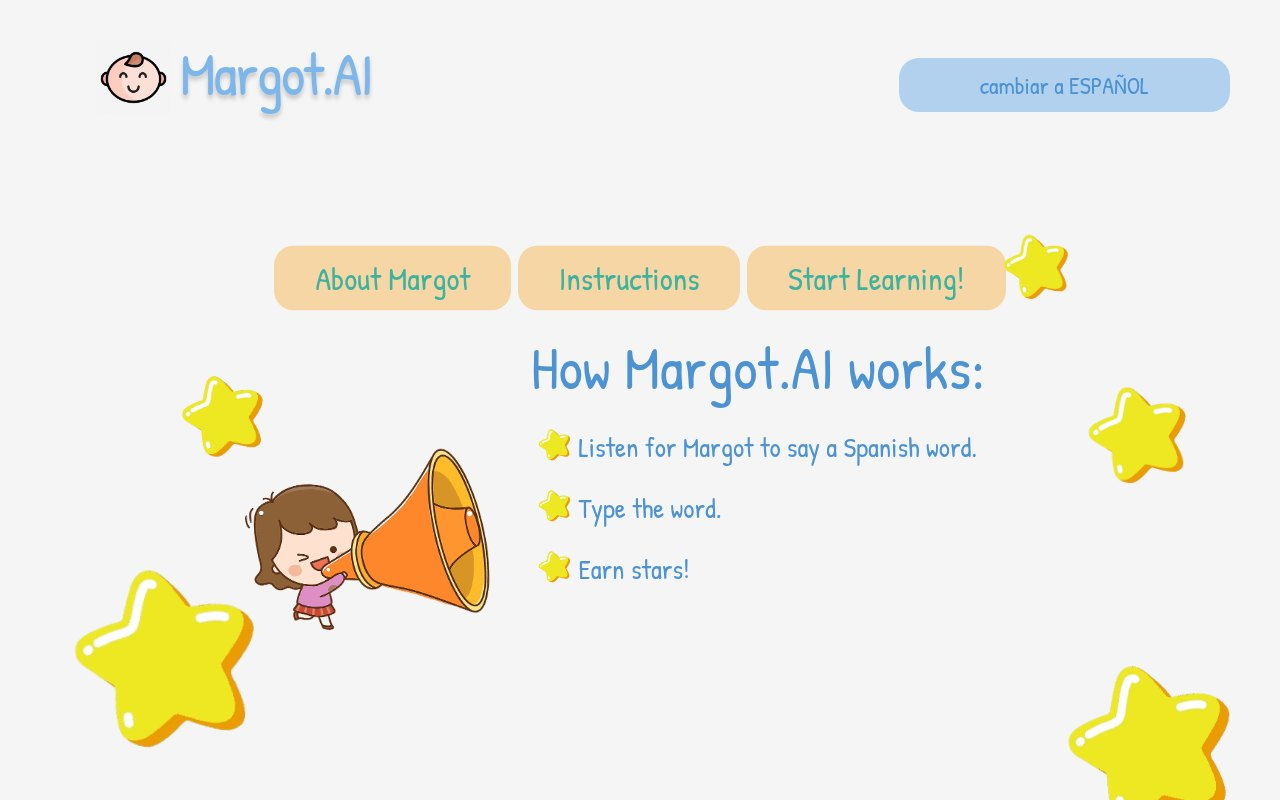
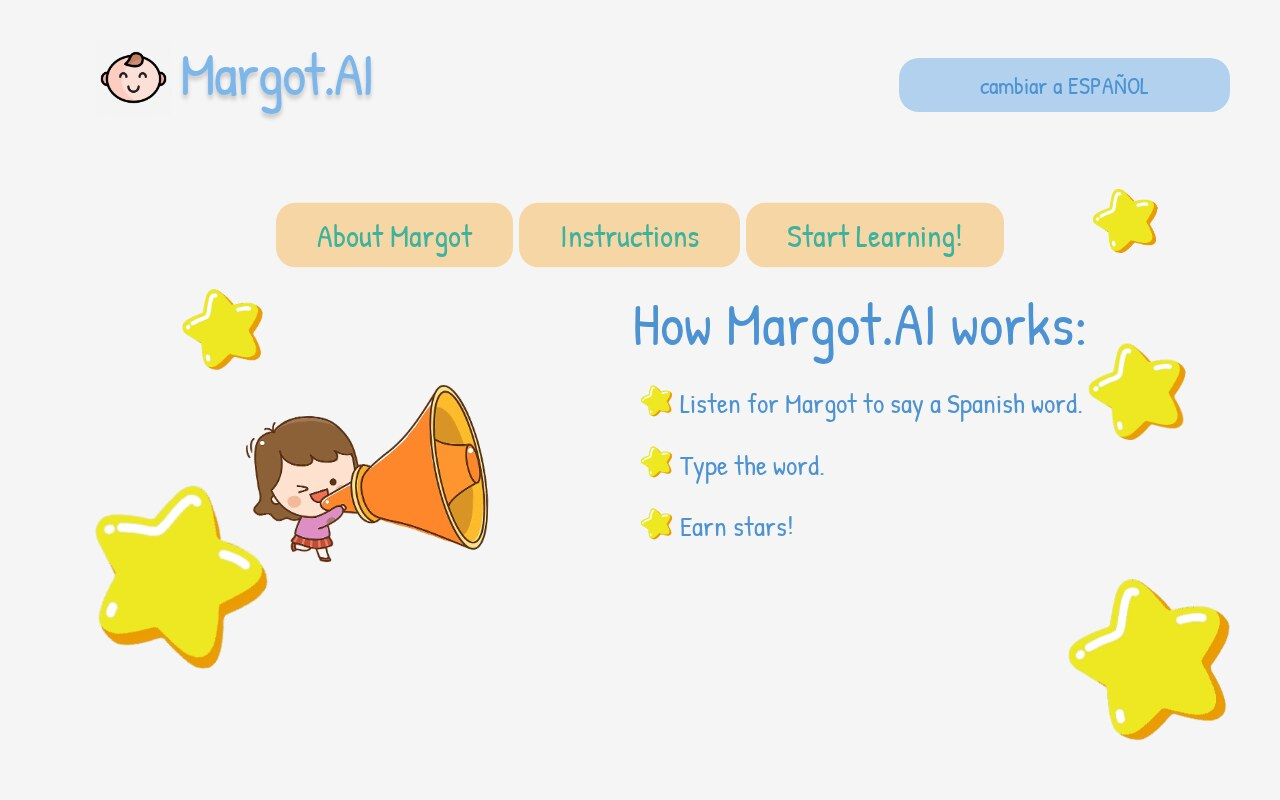
Fix the doubled landing line, friendlier input hint, keep the girl on screen, new screenshots
The landing page said "kids have fun" twice. The input's hint talked about audio
conversion instead of the game, and on short desktop windows the sitting girl ran off
the bottom of the practice page. The README screenshots are retaken from this version.

diff --git a/client/src/App.tsx b/client/src/App.tsx
@@ -284,8 +284,8 @@ function App() {
                   type="text"
                   placeholder={
                     language === "Spanish"
-                      ? "Ingrese el texto para la conversión de audio"
-                      : "Enter text for audio conversion"
+                      ? "Escribe lo que dijo Margot"
+                      : "Type what Margot said"
                   }
                   value={inputValue}
                   onChange={(e) => setInputValue(e.target.value)}
@@ -370,7 +370,7 @@ function App() {
                 Helping your kids have fun
               </p>
               <p className="description-english-line2">
-                kids have fun while learning Spanish!
+                while learning Spanish!
               </p>
               <p className="description-spanish-line1">
                 ¡Ayudando a tus niños a

diff --git a/client/src/LearningPage.css b/client/src/LearningPage.css
@@ -233,3 +233,10 @@ submit-button:hover {
   .info > div > .lstar2 { left: 44%; }
   .info > div > .lstar3 { left: auto; right: 3%; }
 }
+
+/* Short desktop windows: keep the sitting girl inside the page. */
+@media (min-width: 1181px) and (max-height: 900px) {
+  .girl-sitting {
+    width: 215px;
+  }
+}

diff --git a/README.md b/README.md
@@ -17,9 +17,9 @@ Margot says a word out loud in one language, and the child types it in the langu
 
 Margot dice una palabra en un idioma y el niño la escribe en el idioma que está aprendiendo. Cada respuesta correcta gana una estrella.
 
-| How it works | Practice |
-|---|---|
-| ![The page explaining the game: listen for the word, type it, earn stars](docs/how-it-works.jpg) | ![The practice screen asking "What did Margot say?" with a star counter](docs/practice.jpg) |
+| About | How it works | Practice |
+|---|---|---|
+| ![The landing page: helping your kids have fun while learning Spanish](docs/about.jpg) | ![The page explaining the game: listen for the word, type it, earn stars](docs/how-it-works.jpg) | ![The practice screen after a right answer, with one star earned](docs/practice.jpg) |
 
 ## How to play
 
